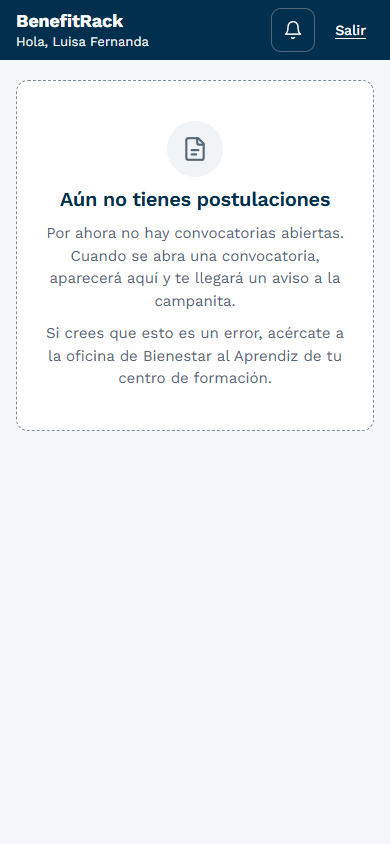
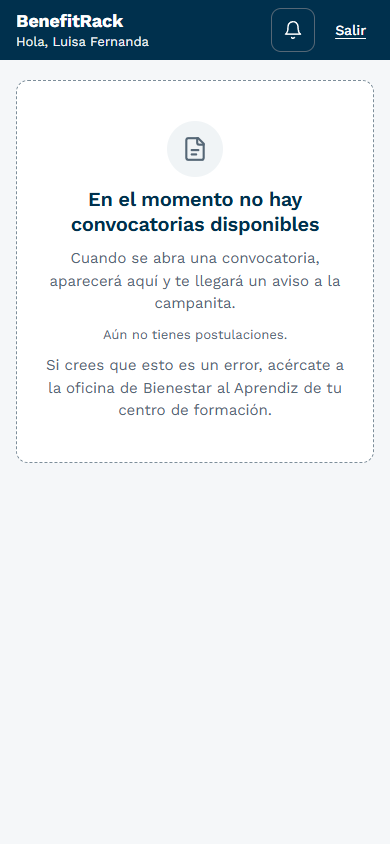
fix: textos sin convocatorias (aprendiz y administradora) y CA-3 con tildes

Changed region(s): [[0.1231, 0.2156, 0.8923, 0.4929]]

diff --git a/vistas/00-dashboard/html/sin-convocatoria-activa.html b/vistas/00-dashboard/html/sin-convocatoria-activa.html
@@ -1200,6 +1200,9 @@ a.br-menu-acciones__item { color: var(--br-azul); text-decoration: none; }
 .br-revision-bloque > h2 { font-size: 16px; }
 .br-revision-bloque .br-archivo-fila { gap: 6px; }
 
+/* Foco visible cuando el botón «Elegir otro archivo» es un <label> que envuelve el input de archivo */
+.br-boton:focus-within { outline: 3px solid var(--br-enlace); outline-offset: 2px; }
+
 </style>
 </head>
 <body>
@@ -1267,7 +1270,7 @@ a.br-menu-acciones__item { color: var(--br-azul); text-decoration: none; }
       <h2 id="titulo-pendientes">Tareas pendientes</h2>
       <div class="br-al-dia">
         <span class="br-al-dia__marca" aria-hidden="true"><svg viewBox="0 0 24 24" fill="none" stroke="currentColor" stroke-width="2" stroke-linecap="round" stroke-linejoin="round" width="22" height="22"><path d="m5 12.5 4.5 4.5L19 7.5"></path></svg></span>
-        <p class="br-al-dia__texto"><strong>En el momento no hay convocatorias disponibles</strong><span class="br-suave">Crea una convocatoria para abrir las postulaciones. Mientras tanto no hay nada pendiente.</span></p>
+        <p class="br-al-dia__texto"><strong>No hay convocatorias abiertas</strong><span class="br-suave">Crea una para que los aprendices puedan postularse.</span></p>
       </div>
     </section>
     <section aria-labelledby="titulo-cifras">
@@ -1276,12 +1279,11 @@ a.br-menu-acciones__item { color: var(--br-azul); text-decoration: none; }
         <li class="br-medida" data-prueba="cifra">
           <span class="br-medida__etiqueta">Postulaciones por revisar</span>
           <span class="br-medida__valor">0</span>
-          <span class="br-medida__nota">Nadie puede postularse ahora</span>
+          <span class="br-medida__nota">Sin postulaciones nuevas</span>
         </li>
         <li class="br-medida br-medida--vacia" data-prueba="cifra">
           <span class="br-medida__etiqueta">Cupos usados</span>
-          <span class="br-medida__valor">En el momento no hay convocatorias disponibles</span>
-          <span class="br-medida__nota">Crea una para abrir las postulaciones.</span>
+          <span class="br-medida__valor">Sin convocatoria abierta</span>
           <a href="../../07-convocatorias/html/crear-editar.html" class="br-boton br-boton--primario br-boton--chico">Crear convocatoria</a>
         </li>
         <li class="br-medida" data-prueba="cifra">

diff --git a/vistas/_fuente/00-dashboard/sin-convocatoria-activa.html b/vistas/_fuente/00-dashboard/sin-convocatoria-activa.html
@@ -21,7 +21,7 @@
       <h2 id="titulo-pendientes">Tareas pendientes</h2>
       <div class="br-al-dia">
         <span class="br-al-dia__marca" aria-hidden="true"><svg viewBox="0 0 24 24" fill="none" stroke="currentColor" stroke-width="2" stroke-linecap="round" stroke-linejoin="round" width="22" height="22"><path d="m5 12.5 4.5 4.5L19 7.5"></path></svg></span>
-        <p class="br-al-dia__texto"><strong>En el momento no hay convocatorias disponibles</strong><span class="br-suave">Crea una convocatoria para abrir las postulaciones. Mientras tanto no hay nada pendiente.</span></p>
+        <p class="br-al-dia__texto"><strong>No hay convocatorias abiertas</strong><span class="br-suave">Crea una para que los aprendices puedan postularse.</span></p>
       </div>
     </section>
     <section aria-labelledby="titulo-cifras">
@@ -30,12 +30,11 @@
         <li class="br-medida" data-prueba="cifra">
           <span class="br-medida__etiqueta">Postulaciones por revisar</span>
           <span class="br-medida__valor">0</span>
-          <span class="br-medida__nota">Nadie puede postularse ahora</span>
+          <span class="br-medida__nota">Sin postulaciones nuevas</span>
         </li>
         <li class="br-medida br-medida--vacia" data-prueba="cifra">
           <span class="br-medida__etiqueta">Cupos usados</span>
-          <span class="br-medida__valor">En el momento no hay convocatorias disponibles</span>
-          <span class="br-medida__nota">Crea una para abrir las postulaciones.</span>
+          <span class="br-medida__valor">Sin convocatoria abierta</span>
           <a href="../../07-convocatorias/html/crear-editar.html" class="br-boton br-boton--primario br-boton--chico">Crear convocatoria</a>
         </li>
         <li class="br-medida" data-prueba="cifra">

diff --git a/vistas/01-mi-proceso/html/sin-postulacion.html b/vistas/01-mi-proceso/html/sin-postulacion.html
@@ -1200,6 +1200,9 @@ a.br-menu-acciones__item { color: var(--br-azul); text-decoration: none; }
 .br-revision-bloque > h2 { font-size: 16px; }
 .br-revision-bloque .br-archivo-fila { gap: 6px; }
 
+/* Foco visible cuando el botón «Elegir otro archivo» es un <label> que envuelve el input de archivo */
+.br-boton:focus-within { outline: 3px solid var(--br-enlace); outline-offset: 2px; }
+
 </style>
 </head>
 <body>
@@ -1220,8 +1223,9 @@ a.br-menu-acciones__item { color: var(--br-azul); text-decoration: none; }
   <main class="br-pagina">
     <section class="br-vacio" data-prueba="resultado" aria-labelledby="titulo-vacio">
       <span class="br-vacio__icono"><svg aria-hidden="true" width="26" height="26" viewBox="0 0 24 24" fill="none" stroke="currentColor" stroke-width="2" stroke-linecap="round" stroke-linejoin="round"><path d="M15 2H6a2 2 0 0 0-2 2v16a2 2 0 0 0 2 2h12a2 2 0 0 0 2-2V7Z"></path><path d="M14 2v4a2 2 0 0 0 2 2h4"></path><path d="M9 13h6"></path><path d="M9 17h4"></path></svg></span>
-      <h1 id="titulo-vacio">Aún no tienes postulaciones</h1>
-      <p>Por ahora no hay convocatorias abiertas. Cuando se abra una convocatoria, aparecerá aquí y te llegará un aviso a la campanita.</p>
+      <h1 id="titulo-vacio">En el momento no hay convocatorias disponibles</h1>
+      <p>Cuando se abra una convocatoria, aparecerá aquí y te llegará un aviso a la campanita.</p>
+      <p class="br-suave">Aún no tienes postulaciones.</p>
       <p>Si crees que esto es un error, acércate a la oficina de Bienestar al Aprendiz de tu centro de formación.</p>
     </section>
   </main>

diff --git a/vistas/09-postulacion/html/convocatoria-cerrada.html b/vistas/09-postulacion/html/convocatoria-cerrada.html
@@ -1200,6 +1200,9 @@ a.br-menu-acciones__item { color: var(--br-azul); text-decoration: none; }
 .br-revision-bloque > h2 { font-size: 16px; }
 .br-revision-bloque .br-archivo-fila { gap: 6px; }
 
+/* Foco visible cuando el botón «Elegir otro archivo» es un <label> que envuelve el input de archivo */
+.br-boton:focus-within { outline: 3px solid var(--br-enlace); outline-offset: 2px; }
+
 </style>
 </head>
 <body>
@@ -1224,7 +1227,7 @@ a.br-menu-acciones__item { color: var(--br-azul); text-decoration: none; }
     <section class="br-vacio" data-prueba="resultado" aria-labelledby="titulo-cerrada">
       <span class="br-vacio__icono"><svg width="26" height="26" aria-hidden="true" viewBox="0 0 24 24" fill="none" stroke="currentColor" stroke-width="2" stroke-linecap="round" stroke-linejoin="round"><rect width="18" height="11" x="3" y="11" rx="2" ry="2"></rect><path d="M7 11V7a5 5 0 0 1 10 0v4"></path></svg></span>
       <h1 id="titulo-cerrada">Esta convocatoria ya cerró</h1>
-      <p>La fecha de cierre de Plan de datos 2026-2 ya pasó, así que ya no se reciben postulaciones.</p>
+      <p>La fecha de cierre de esta convocatoria ya pasó, así que ya no se reciben postulaciones.</p>
       <p>Cuando se abra otra convocatoria, aparecerá en Mi proceso y te llegará un aviso.</p>
       <a class="br-boton br-boton--primario" href="../../01-mi-proceso/html/sin-postulacion.html">Ir a Mi proceso</a>
     </section>

diff --git a/vistas/_fuente/01-mi-proceso/sin-postulacion.html b/vistas/_fuente/01-mi-proceso/sin-postulacion.html
@@ -11,8 +11,9 @@
   <main class="br-pagina">
     <section class="br-vacio" data-prueba="resultado" aria-labelledby="titulo-vacio">
       <span class="br-vacio__icono"><svg aria-hidden="true" width="26" height="26" viewBox="0 0 24 24" fill="none" stroke="currentColor" stroke-width="2" stroke-linecap="round" stroke-linejoin="round"><path d="M15 2H6a2 2 0 0 0-2 2v16a2 2 0 0 0 2 2h12a2 2 0 0 0 2-2V7Z"></path><path d="M14 2v4a2 2 0 0 0 2 2h4"></path><path d="M9 13h6"></path><path d="M9 17h4"></path></svg></span>
-      <h1 id="titulo-vacio">Aún no tienes postulaciones</h1>
-      <p>Por ahora no hay convocatorias abiertas. Cuando se abra una convocatoria, aparecerá aquí y te llegará un aviso a la campanita.</p>
+      <h1 id="titulo-vacio">En el momento no hay convocatorias disponibles</h1>
+      <p>Cuando se abra una convocatoria, aparecerá aquí y te llegará un aviso a la campanita.</p>
+      <p class="br-suave">Aún no tienes postulaciones.</p>
       <p>Si crees que esto es un error, acércate a la oficina de Bienestar al Aprendiz de tu centro de formación.</p>
     </section>
   </main>

diff --git a/vistas/_fuente/09-postulacion/convocatoria-cerrada.html b/vistas/_fuente/09-postulacion/convocatoria-cerrada.html
@@ -15,7 +15,7 @@
     <section class="br-vacio" data-prueba="resultado" aria-labelledby="titulo-cerrada">
       <span class="br-vacio__icono"><svg width="26" height="26" aria-hidden="true" viewBox="0 0 24 24" fill="none" stroke="currentColor" stroke-width="2" stroke-linecap="round" stroke-linejoin="round"><rect width="18" height="11" x="3" y="11" rx="2" ry="2"></rect><path d="M7 11V7a5 5 0 0 1 10 0v4"></path></svg></span>
       <h1 id="titulo-cerrada">Esta convocatoria ya cerró</h1>
-      <p>La fecha de cierre de Plan de datos 2026-2 ya pasó, así que ya no se reciben postulaciones.</p>
+      <p>La fecha de cierre de esta convocatoria ya pasó, así que ya no se reciben postulaciones.</p>
       <p>Cuando se abra otra convocatoria, aparecerá en Mi proceso y te llegará un aviso.</p>
       <a class="br-boton br-boton--primario" href="../../01-mi-proceso/html/sin-postulacion.html">Ir a Mi proceso</a>
     </section>

diff --git a/vistas/_comun/estilo.css b/vistas/_comun/estilo.css
@@ -1192,3 +1192,6 @@ a.br-menu-acciones__item { color: var(--br-azul); text-decoration: none; }
 .br-revision-bloque { display: grid; gap: 10px; padding-top: 16px; border-top: 1px solid var(--br-borde); }
 .br-revision-bloque > h2 { font-size: 16px; }
 .br-revision-bloque .br-archivo-fila { gap: 6px; }
+
+/* Foco visible cuando el botón «Elegir otro archivo» es un <label> que envuelve el input de archivo */
+.br-boton:focus-within { outline: 3px solid var(--br-enlace); outline-offset: 2px; }

diff --git a/vistas/00-dashboard/html/con-pendientes.html b/vistas/00-dashboard/html/con-pendientes.html
@@ -1200,6 +1200,9 @@ a.br-menu-acciones__item { color: var(--br-azul); text-decoration: none; }
 .br-revision-bloque > h2 { font-size: 16px; }
 .br-revision-bloque .br-archivo-fila { gap: 6px; }
 
+/* Foco visible cuando el botón «Elegir otro archivo» es un <label> que envuelve el input de archivo */
+.br-boton:focus-within { outline: 3px solid var(--br-enlace); outline-offset: 2px; }
+
 </style>
 </head>
 <body>

diff --git a/vistas/00-dashboard/html/todo-al-dia.html b/vistas/00-dashboard/html/todo-al-dia.html
@@ -1200,6 +1200,9 @@ a.br-menu-acciones__item { color: var(--br-azul); text-decoration: none; }
 .br-revision-bloque > h2 { font-size: 16px; }
 .br-revision-bloque .br-archivo-fila { gap: 6px; }
 
+/* Foco visible cuando el botón «Elegir otro archivo» es un <label> que envuelve el input de archivo */
+.br-boton:focus-within { outline: 3px solid var(--br-enlace); outline-offset: 2px; }
+
 </style>
 </head>
 <body>

diff --git a/vistas/01-mi-proceso/html/beneficio-terminado.html b/vistas/01-mi-proceso/html/beneficio-terminado.html
@@ -1200,6 +1200,9 @@ a.br-menu-acciones__item { color: var(--br-azul); text-decoration: none; }
 .br-revision-bloque > h2 { font-size: 16px; }
 .br-revision-bloque .br-archivo-fila { gap: 6px; }
 
+/* Foco visible cuando el botón «Elegir otro archivo» es un <label> que envuelve el input de archivo */
+.br-boton:focus-within { outline: 3px solid var(--br-enlace); outline-offset: 2px; }
+
 </style>
 </head>
 <body>

diff --git a/vistas/01-mi-proceso/html/cargando.html b/vistas/01-mi-proceso/html/cargando.html
@@ -1200,6 +1200,9 @@ a.br-menu-acciones__item { color: var(--br-azul); text-decoration: none; }
 .br-revision-bloque > h2 { font-size: 16px; }
 .br-revision-bloque .br-archivo-fila { gap: 6px; }
 
+/* Foco visible cuando el botón «Elegir otro archivo» es un <label> que envuelve el input de archivo */
+.br-boton:focus-within { outline: 3px solid var(--br-enlace); outline-offset: 2px; }
+
 </style>
 </head>
 <body>

diff --git a/vistas/01-mi-proceso/html/convocatoria-abierta.html b/vistas/01-mi-proceso/html/convocatoria-abierta.html
@@ -1200,6 +1200,9 @@ a.br-menu-acciones__item { color: var(--br-azul); text-decoration: none; }
 .br-revision-bloque > h2 { font-size: 16px; }
 .br-revision-bloque .br-archivo-fila { gap: 6px; }
 
+/* Foco visible cuando el botón «Elegir otro archivo» es un <label> que envuelve el input de archivo */
+.br-boton:focus-within { outline: 3px solid var(--br-enlace); outline-offset: 2px; }
+
 </style>
 </head>
 <body>
